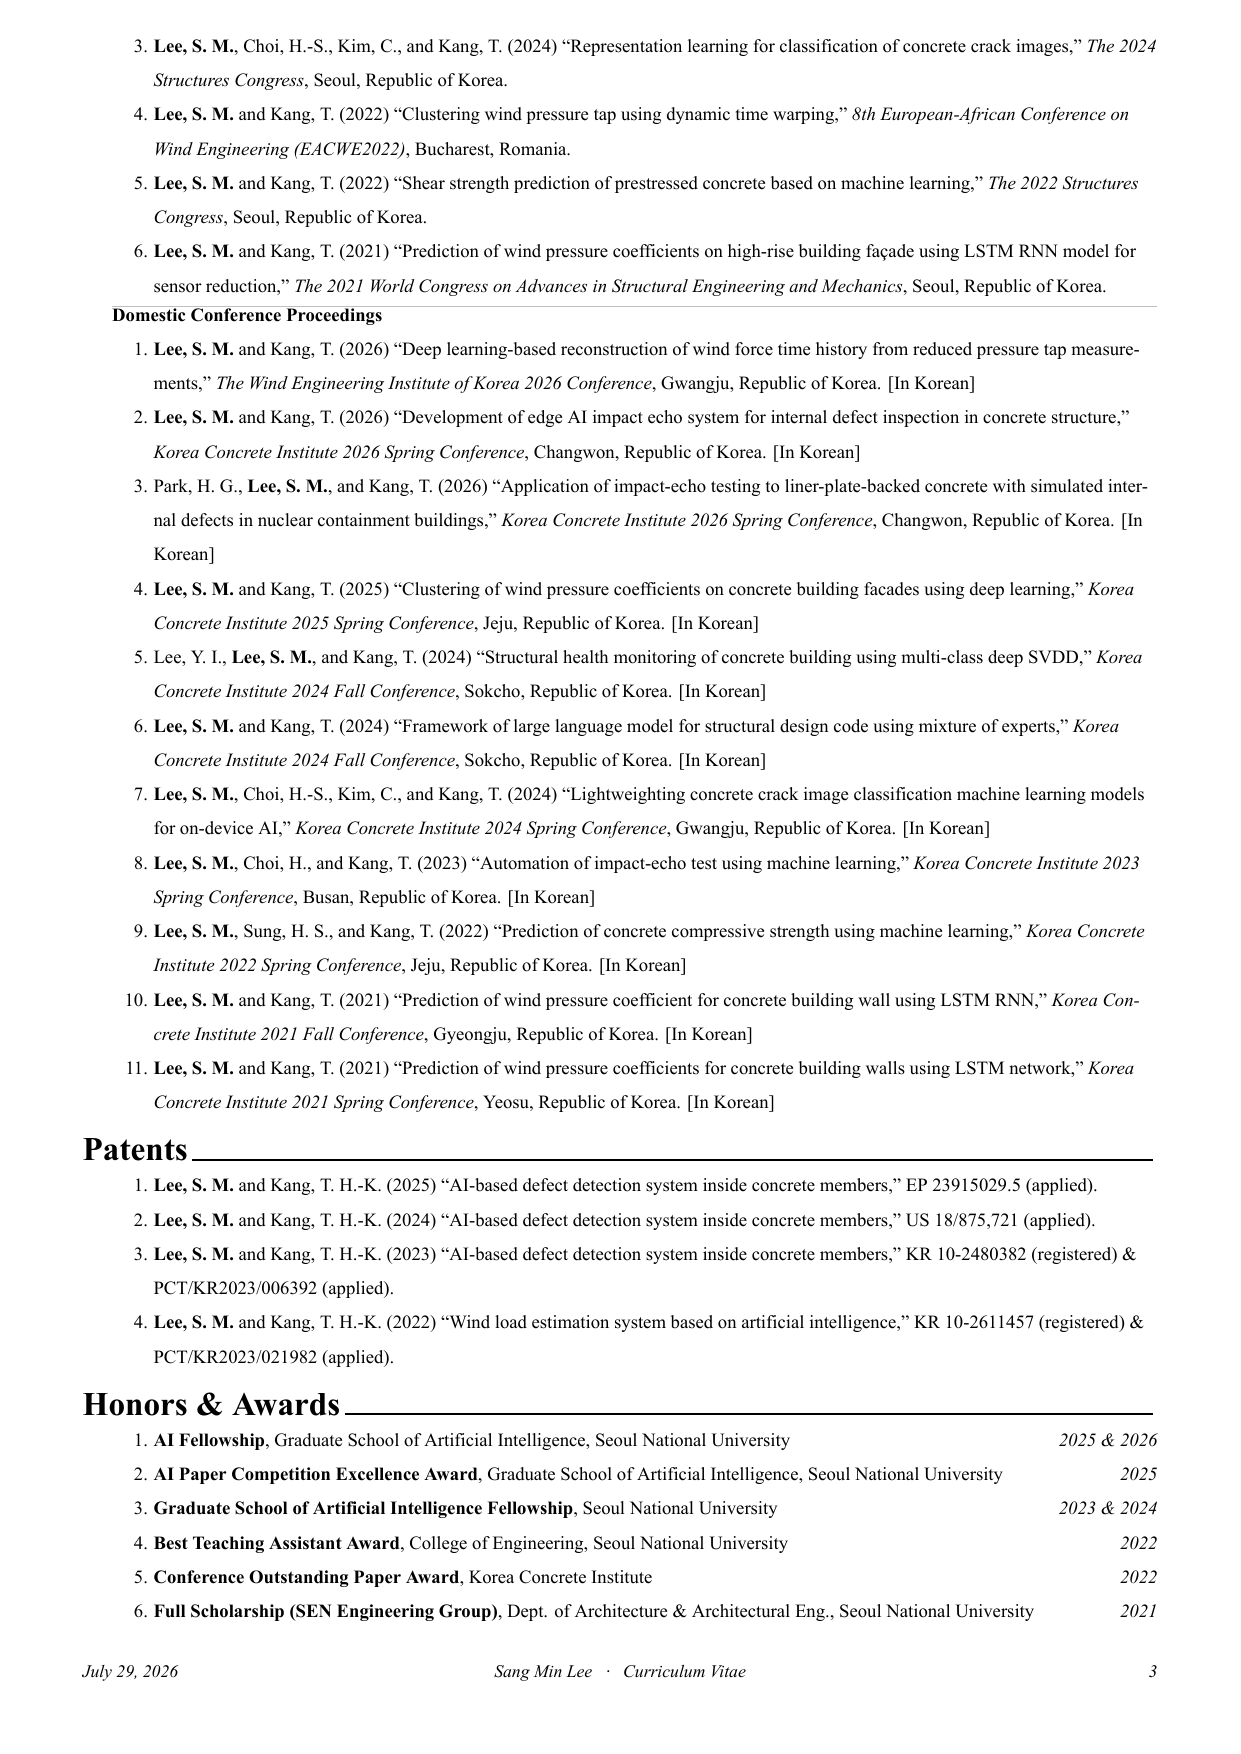
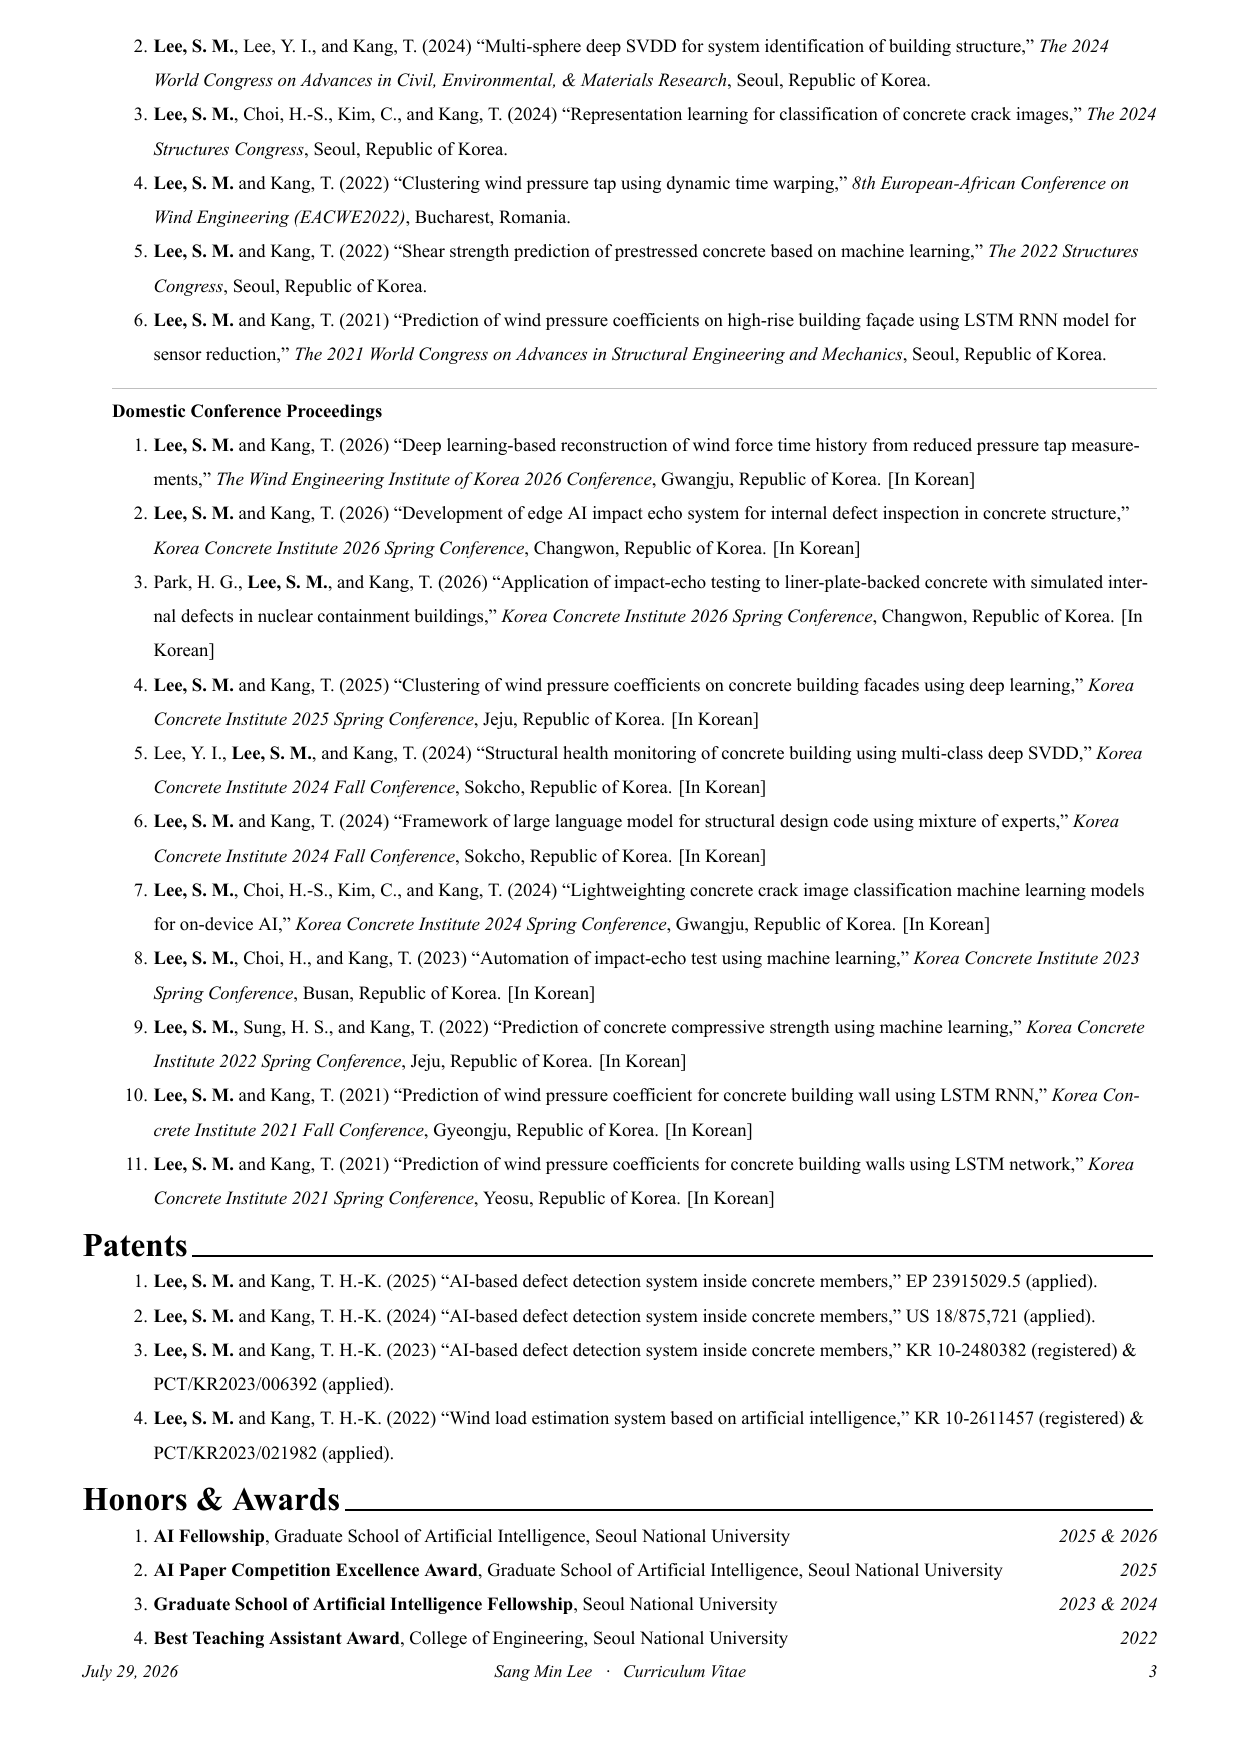
Give publication subsection dividers full-row spacing

Changed region(s): [[0.0612, 0.0, 0.9492, 0.9544]]

diff --git a/research-cv/cv/publications.tex b/research-cv/cv/publications.tex
@@ -10,19 +10,19 @@
 
 \input{cv/publication_journals.tex}
 
-\cventrydivider
+\cvsubsectiondivider
 
 \cvsubsection{Domestic Journal Articles}
 
 \input{cv/publication_journals_domestic.tex}
 
-\cventrydivider
+\cvsubsectiondivider
 
 \cvsubsection{International Conference Proceedings}
 
 \input{cv/publication_conf.tex}
 
-\cventrydivider
+\cvsubsectiondivider
 
 \cvsubsection{Domestic Conference Proceedings}
 
